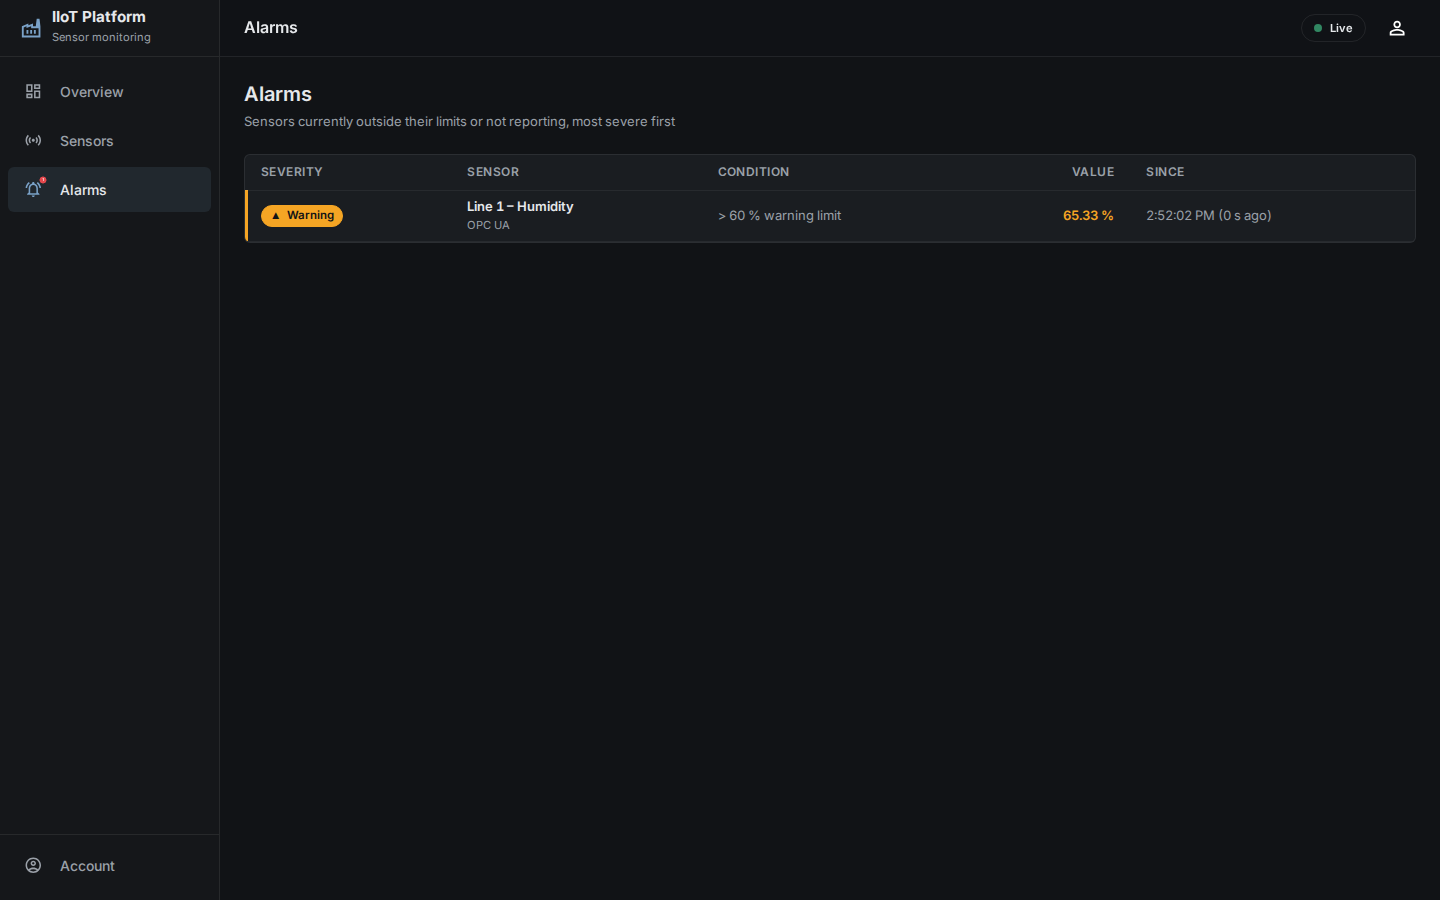
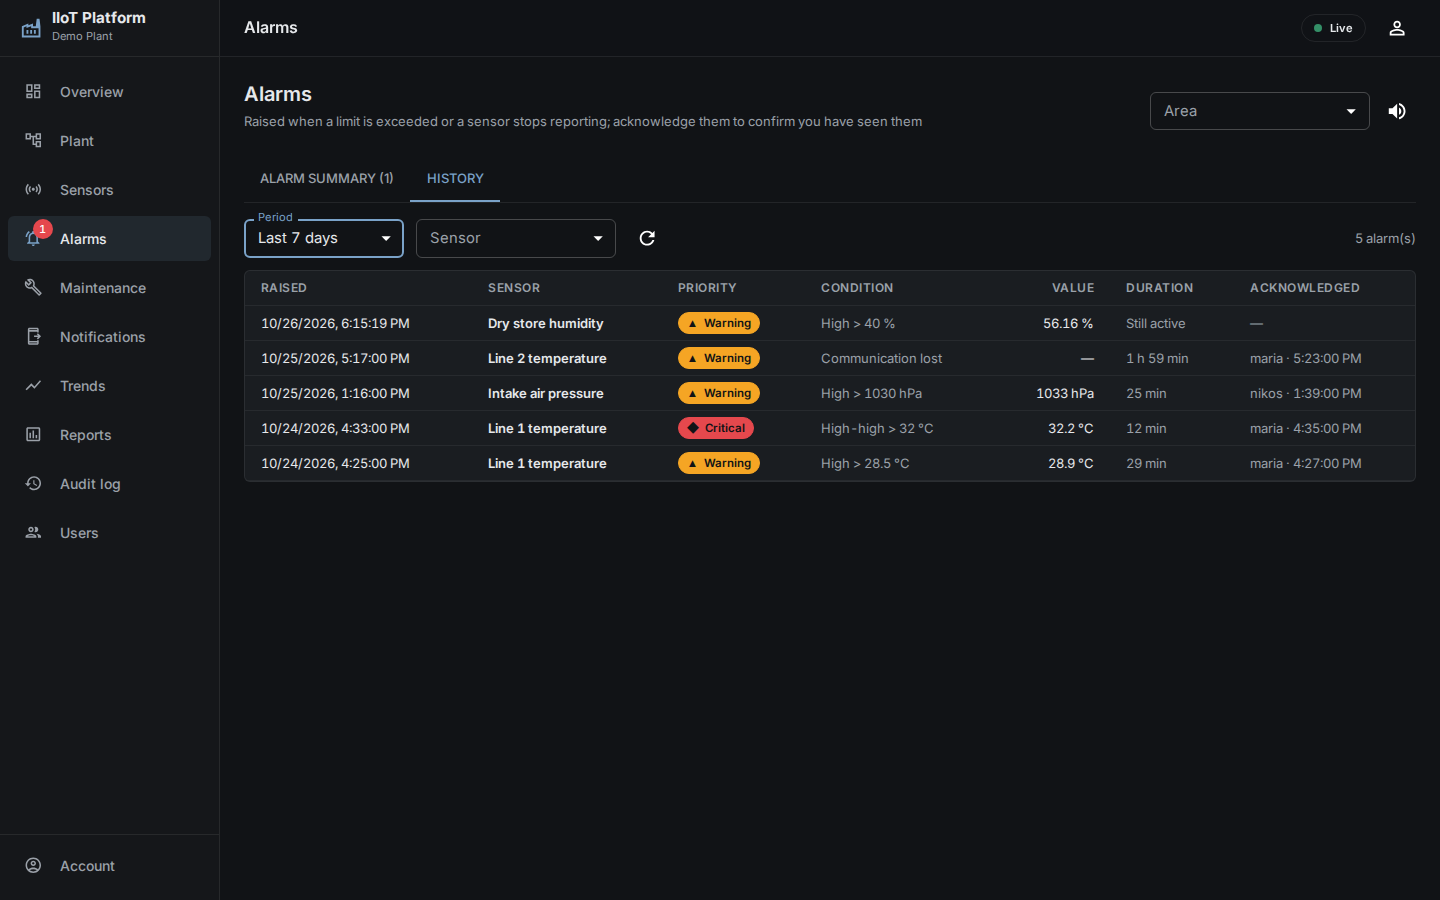
Update the README screenshots to show every part of the platform
New pictures from a demo site with a week of simulated data. They show the
grouped overview, a machine's plant page with its maintenance, the sensor
detail, the 7-day alarm history, trend comparison, the weekly report,
notification rules and the maintenance page, plus the 7-day history chart.

diff --git a/README.md b/README.md
@@ -143,17 +143,25 @@ The simulator generates randomized (but within-limits) values every second, whic
 
 Screenshots
 -----------
-The dashboard follows ISA-101 "high-performance HMI" principles: neutral greys for normal operation and colour reserved for abnormal states, so alarms stand out at a glance.
+The dashboard follows ISA-101 "high-performance HMI" principles: neutral greys for normal operation and colour reserved for abnormal states, so alarms stand out at a glance. The screenshots show a demo site with a week of simulated data.
 
-| Plant overview | Sensor detail |
+| Plant overview | Plant hierarchy |
 |---|---|
-| ![Plant overview with KPIs, live sensor table and active alarms](Sensor-app/docs/screenshots/overview.png) | ![Sensor detail with trend, limit lines, gauge, configuration and map](Sensor-app/docs/screenshots/sensor-detail.png) |
-| **Alarms** | **Add sensor** |
-| ![Active alarm list sorted by severity](Sensor-app/docs/screenshots/alarms.png) | ![Three-step dialog for adding a sensor](Sensor-app/docs/screenshots/add-sensor.png) |
+| ![Overview grouped by area and machine, with KPIs, live values and active alarms](Sensor-app/docs/screenshots/overview.png) | ![A machine's page: its sensors, maintenance tasks and work log, next to the plant tree with alarm and overdue-maintenance markers](Sensor-app/docs/screenshots/plant.png) |
+| **Sensor detail** | **Alarm history** |
+| ![Sensor detail with live trend, gauge and configuration](Sensor-app/docs/screenshots/sensor-detail.png) | ![Alarm journal of the last 7 days with priorities, durations and who acknowledged](Sensor-app/docs/screenshots/alarms.png) |
+| **Trend comparison** | **Weekly report** |
+| ![Four sensors over 7 days, one chart per unit](Sensor-app/docs/screenshots/trends.png) | ![Weekly report: availability, time outside limits, ISA-18.2 alarm load and the most frequent alarms](Sensor-app/docs/screenshots/reports.png) |
+| **Notifications** | **Maintenance** |
+| ![Telegram notification rules with escalation, and the delivery log](Sensor-app/docs/screenshots/notifications.png) | ![Recurring maintenance tasks with due dates and the work log](Sensor-app/docs/screenshots/maintenance.png) |
 
-**30 days of history** – average line with a min–max band: a 40-minute overheating three days earlier is still visible as a spike and a critical marker, even though each point covers 2 hours.
+**7 days of history**: an average line with a min–max band. The 45-minute overheating on Saturday is still visible as a spike with critical markers, even though each point covers 30 minutes. In the work log it is linked to the repair that followed.
 
-![30-day history with min–max band and a critical marker](Sensor-app/docs/screenshots/history.png)
+![7-day history with min–max band and critical markers](Sensor-app/docs/screenshots/history.png)
+
+Adding a sensor is a three-step dialog: protocol, connection, alarm limits and place in the plant.
+
+![Three-step dialog for adding a sensor](Sensor-app/docs/screenshots/add-sensor.png)
 
 System Architecture & Tech Stack
 --------------------------------
